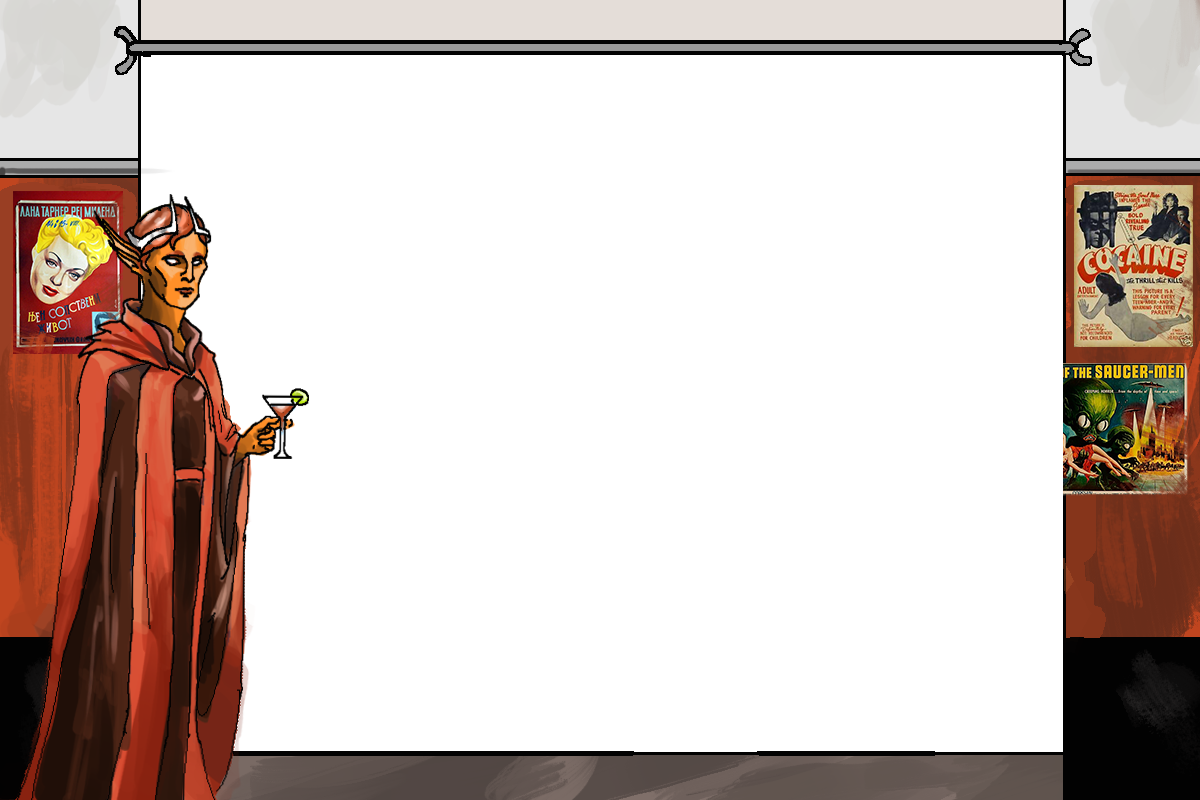
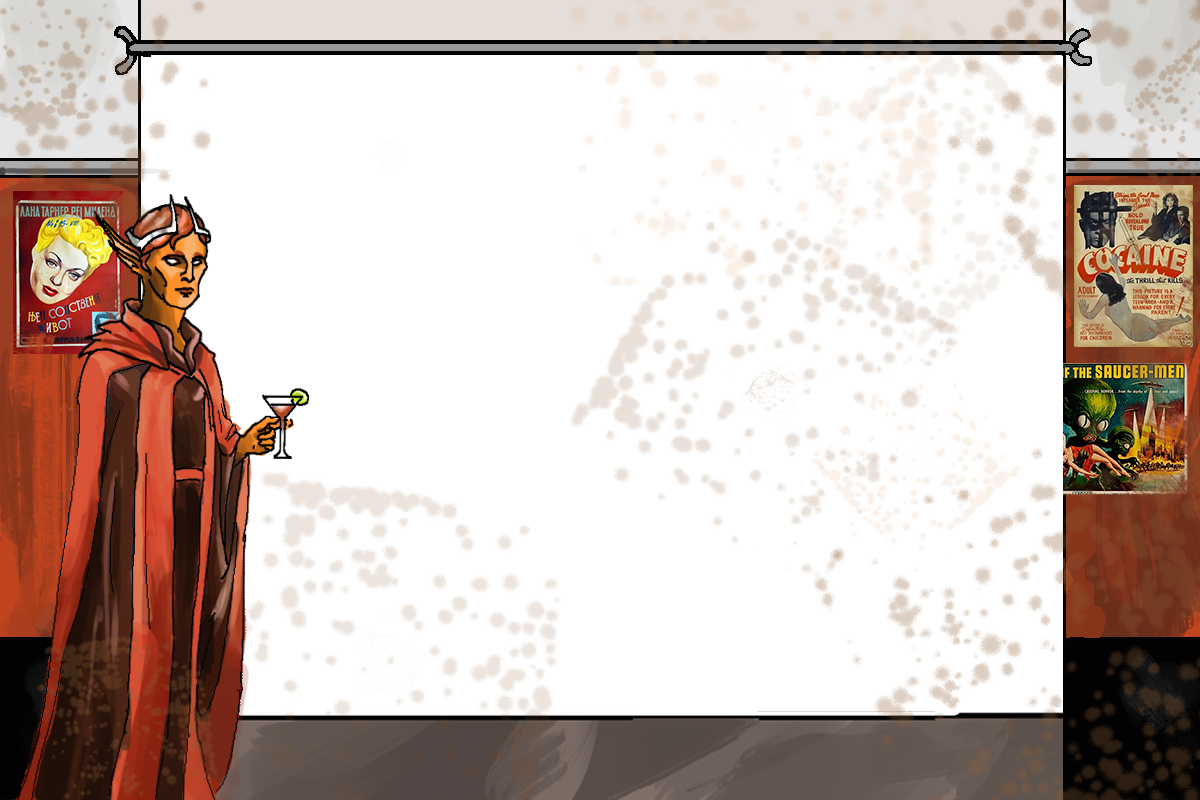
added art work

diff --git a/src/style/entrance.scss b/src/style/entrance.scss
@@ -106,7 +106,7 @@
     margin: auto;
     height: 800px;
     width: 1200px;
-    transform: translateZ(700px) rotateY(90deg) rotateX(0deg) rotateZ(0deg);
+    transform: translateZ(900px) translateY(50px) translateX(330px) rotateY(90deg) rotateX(0deg) rotateZ(0deg);
     transform-style: preserve-3d;
     transition: all 1s cubic-bezier(.35, .04, .6, .94);
 }
@@ -341,7 +341,7 @@
     margin: auto;
     height: 800px;
     width: 1200px;
-    transform: translateZ(550px) rotateY(180deg) rotateX(90deg) rotateZ(0deg);
+    transform: translateZ(600px) translateX(100px) translateY(50px) rotateY(180deg) rotateX(90deg) rotateZ(0deg);
     transform-style: preserve-3d;
     transition: all 1s cubic-bezier(.35, .04, .6, .94);
 }
@@ -420,22 +420,22 @@
 
 #cube-face-2-a {
     transform: rotateY( -90deg) translateZ(-600px);
-    background-color: rgba(196, 247, 10, 0.363);
+    background-image: url("./img/e-2-a.png");
 }
 
 #cube-face-2-b {
-    transform: rotateY( -90deg) translateZ(-600px);
-    background-color: rgba(189, 241, 0, 0.363);
+    transform: rotateY( -90deg) translateZ(-700px);
+    background-image: url("./img/e-2-b.png");
 }
 
 #cube-face-2-c {
-    transform: rotateY( -90deg) translateZ(-700px);
-    background-color: rgba(90, 114, 2, 0.363);
+    transform: rotateY( -90deg) translateZ(-750px);
+    background-image: url("./img/e-2-c.png");
 }
 
 #cube-face-2-d {
-    transform: rotateY( -90deg) translateZ(-800px);
-    background-color: rgba(19, 24, 0, 0.363);
+    transform: rotateY( -90deg) translateZ(-850px);
+    background-image: url("./img/e-2-d.png");
 }
 
 #cube-face-3-a {
@@ -526,75 +526,61 @@
     position: absolute;
     height: 1200px;
     width: 1200px;
-    border: 1px solid green;
-    border-radius: 3px;
     user-select: none;
     transform: rotateX(90deg) translateZ(600px);
-    background-color: rgba(95, 75, 76, 0.534)
+    background-image: url("./img/e-5-a.png");
 }
 
 #cube-face-5-b {
     position: absolute;
     height: 1200px;
     width: 1200px;
-    border: 1px solid green;
-    border-radius: 3px;
     user-select: none;
     transform: rotateX(90deg) translateZ(700px);
-    background-color: rgba(51, 45, 45, 0.534)
+    background-image: url("./img/e-5-b.png");
 }
 
 #cube-face-5-c {
     position: absolute;
     height: 1200px;
     width: 1200px;
-    border: 1px solid green;
-    border-radius: 3px;
     user-select: none;
     transform: rotateX(90deg) translateZ(800px);
-    background-color: rgba(7, 7, 7, 0.534)
+    background-image: url("./img/e-5-c.png");
 }
 
 #cube-face-5-d {
     position: absolute;
     height: 1200px;
     width: 1200px;
-    border: 1px solid green;
-    border-radius: 3px;
     user-select: none;
     transform: rotateX(90deg) translateZ(900px);
-    background-color: rgba(7, 7, 7, 0.534)
+    background-image: url("./img/e-5-d.png");
 }
 
 #cube-face-5-e {
     position: absolute;
     height: 1200px;
     width: 1200px;
-    border: 1px solid green;
-    border-radius: 3px;
     user-select: none;
     transform: rotateX(90deg) translateZ(1000px);
-    background-color: rgba(7, 7, 7, 0.534)
+    background-image: url("./img/e-5-e.png");
 }
 
 #cube-face-5-f {
     position: absolute;
     height: 1200px;
     width: 1200px;
-    border: 1px solid green;
-    border-radius: 3px;
     user-select: none;
     transform: rotateX(90deg) translateZ(1200px);
-    background-color: rgba(7, 7, 7, 0.534)
+    background-image: url("./img/e-5-f.png");
 }
 
 #cube-face-6-a {
     position: absolute;
     height: 1200px;
     width: 1200px;
-    border: 1px solid green;
-    border-radius: 3px;
     user-select: none;
     transform: rotateX(90deg) rotateZ(180deg) translateZ(-200px);
-    background-color: rgba(255, 0, 179, 0.418);
+    background-image: url("./img/e-6-floor.png");
 }

diff --git a/src/scene/Entrance/Entrance.tsx b/src/scene/Entrance/Entrance.tsx
@@ -340,7 +340,7 @@ function Entrance() {
                         <div id="cube-face-4-d" className="cube-face">
                             4-d
                         </div>
-                        <div id="cube-face-5-a" className="cube-top">
+                        <div id="cube-face-5-a" className="cube-face">
                             5-a
                         </div>
                         <div id="cube-face-5-b" className="cube-face">
@@ -349,7 +349,7 @@ function Entrance() {
                         <div id="cube-face-5-c" className="cube-face">
                             5-c
                         </div>
-                        <div id="cube-face-5-d" className="cube-top">
+                        <div id="cube-face-5-d" className="cube-face">
                             5-d
                         </div>
                         <div id="cube-face-5-e" className="cube-face">

diff --git a/src/style/main.scss b/src/style/main.scss
@@ -2,6 +2,7 @@ html,
 body {
     margin: 0;
     height: 100%;
+    background-color: black;
     overflow: hidden
 }
 
